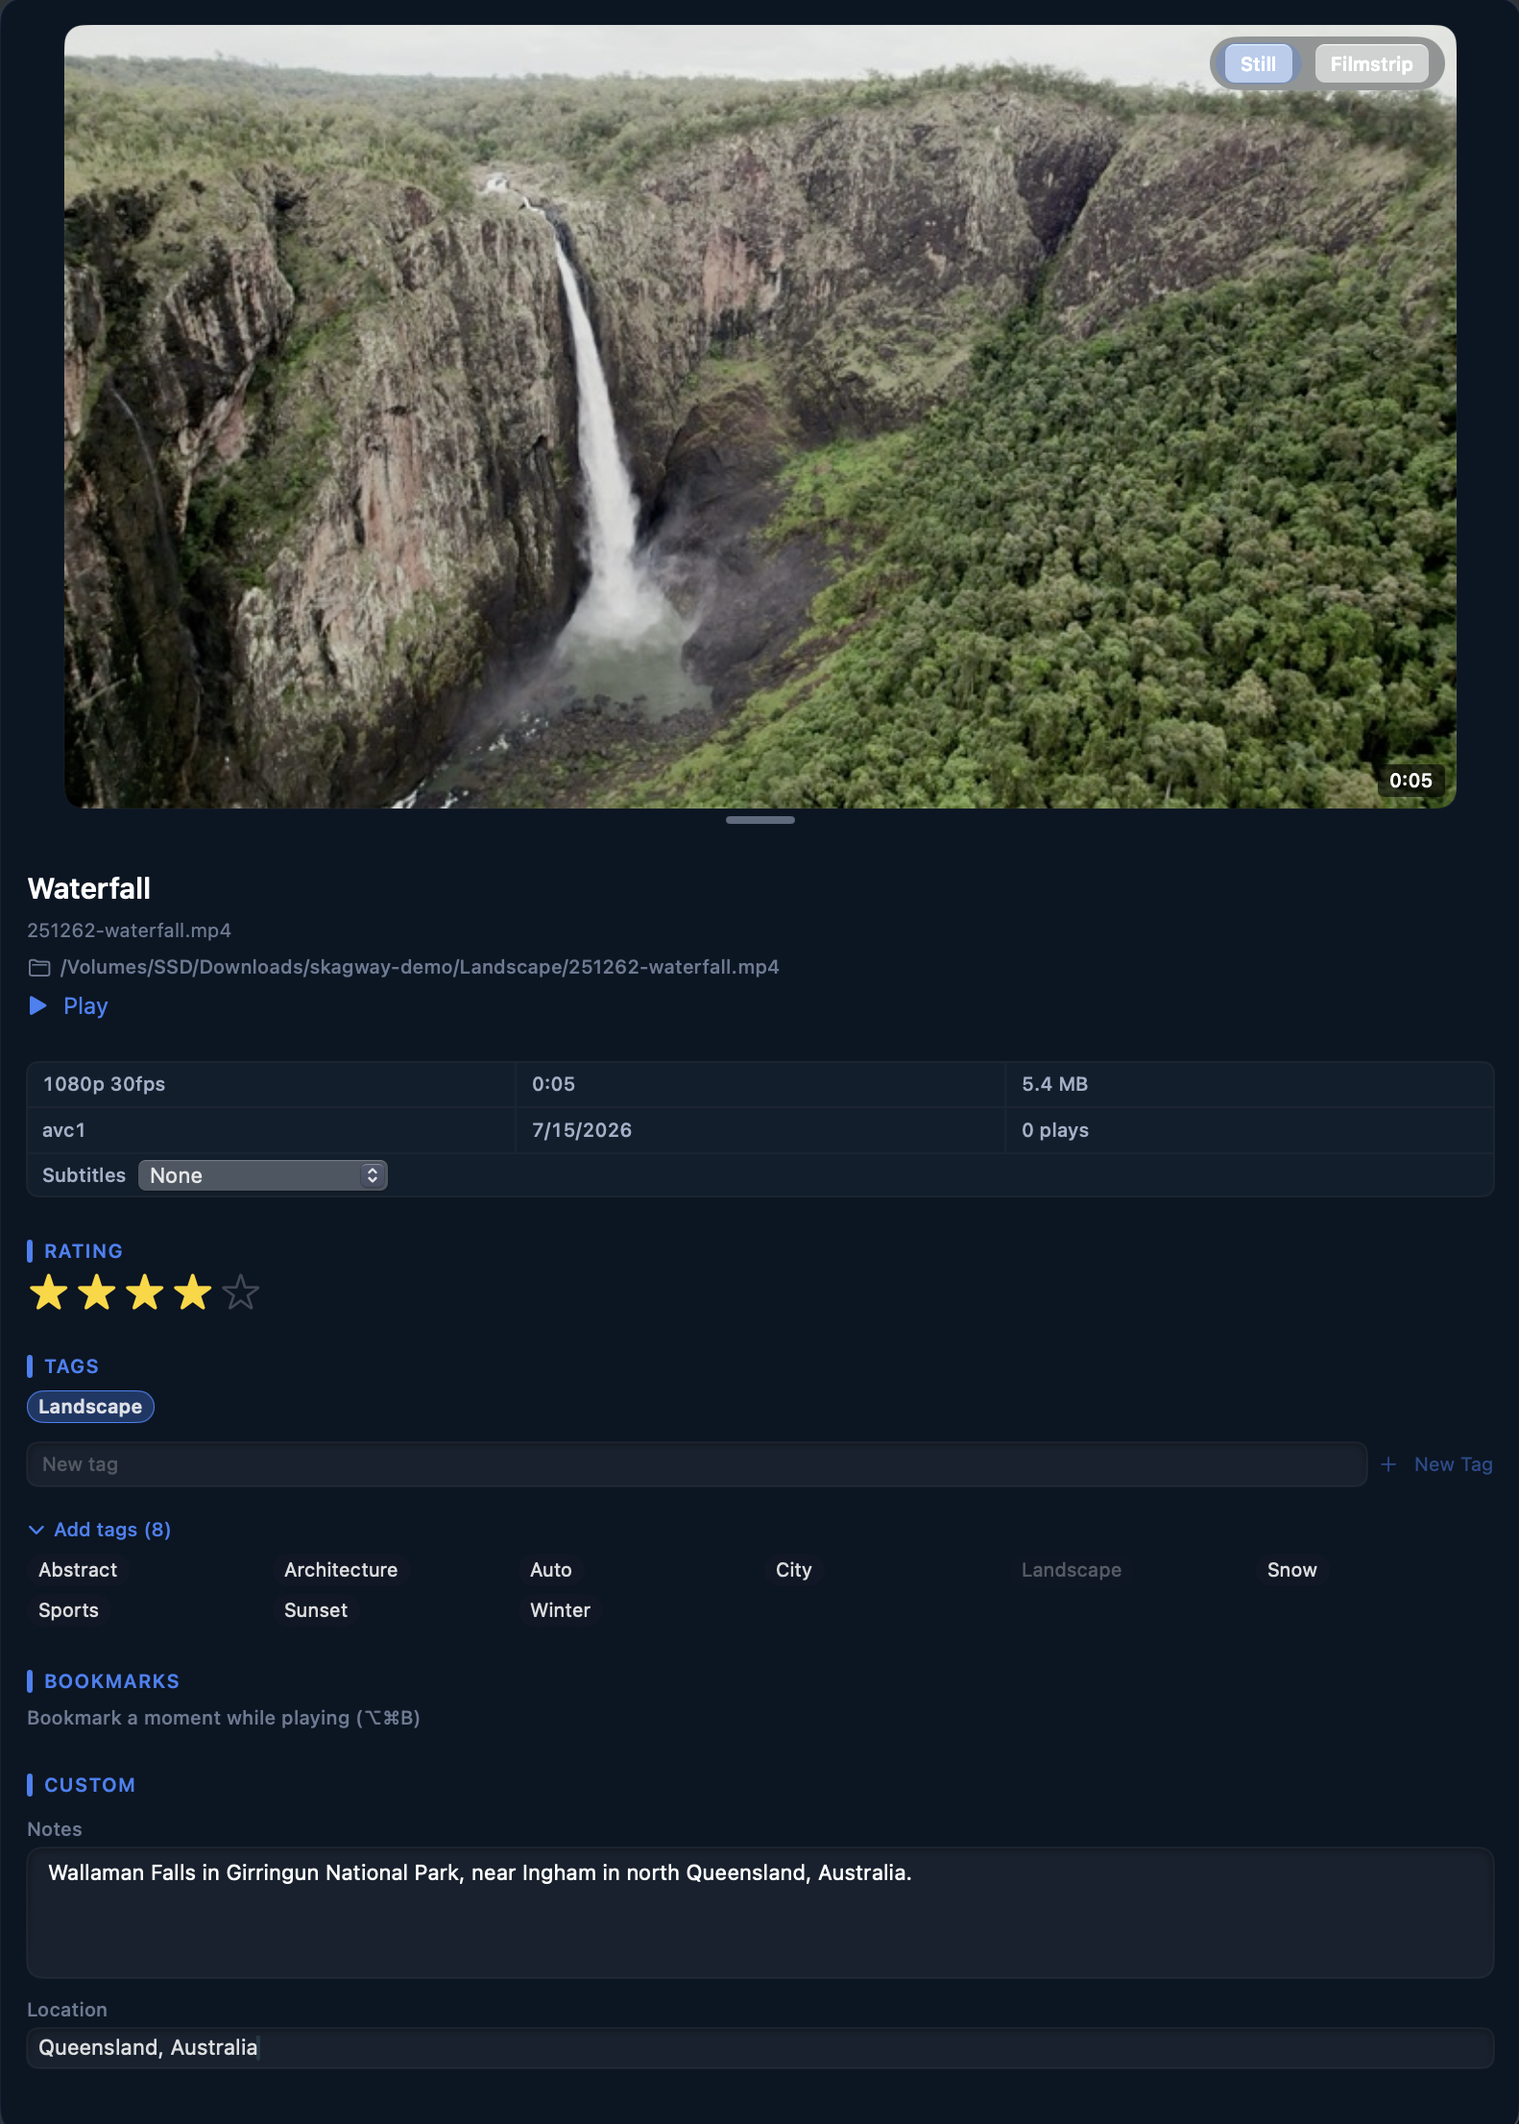
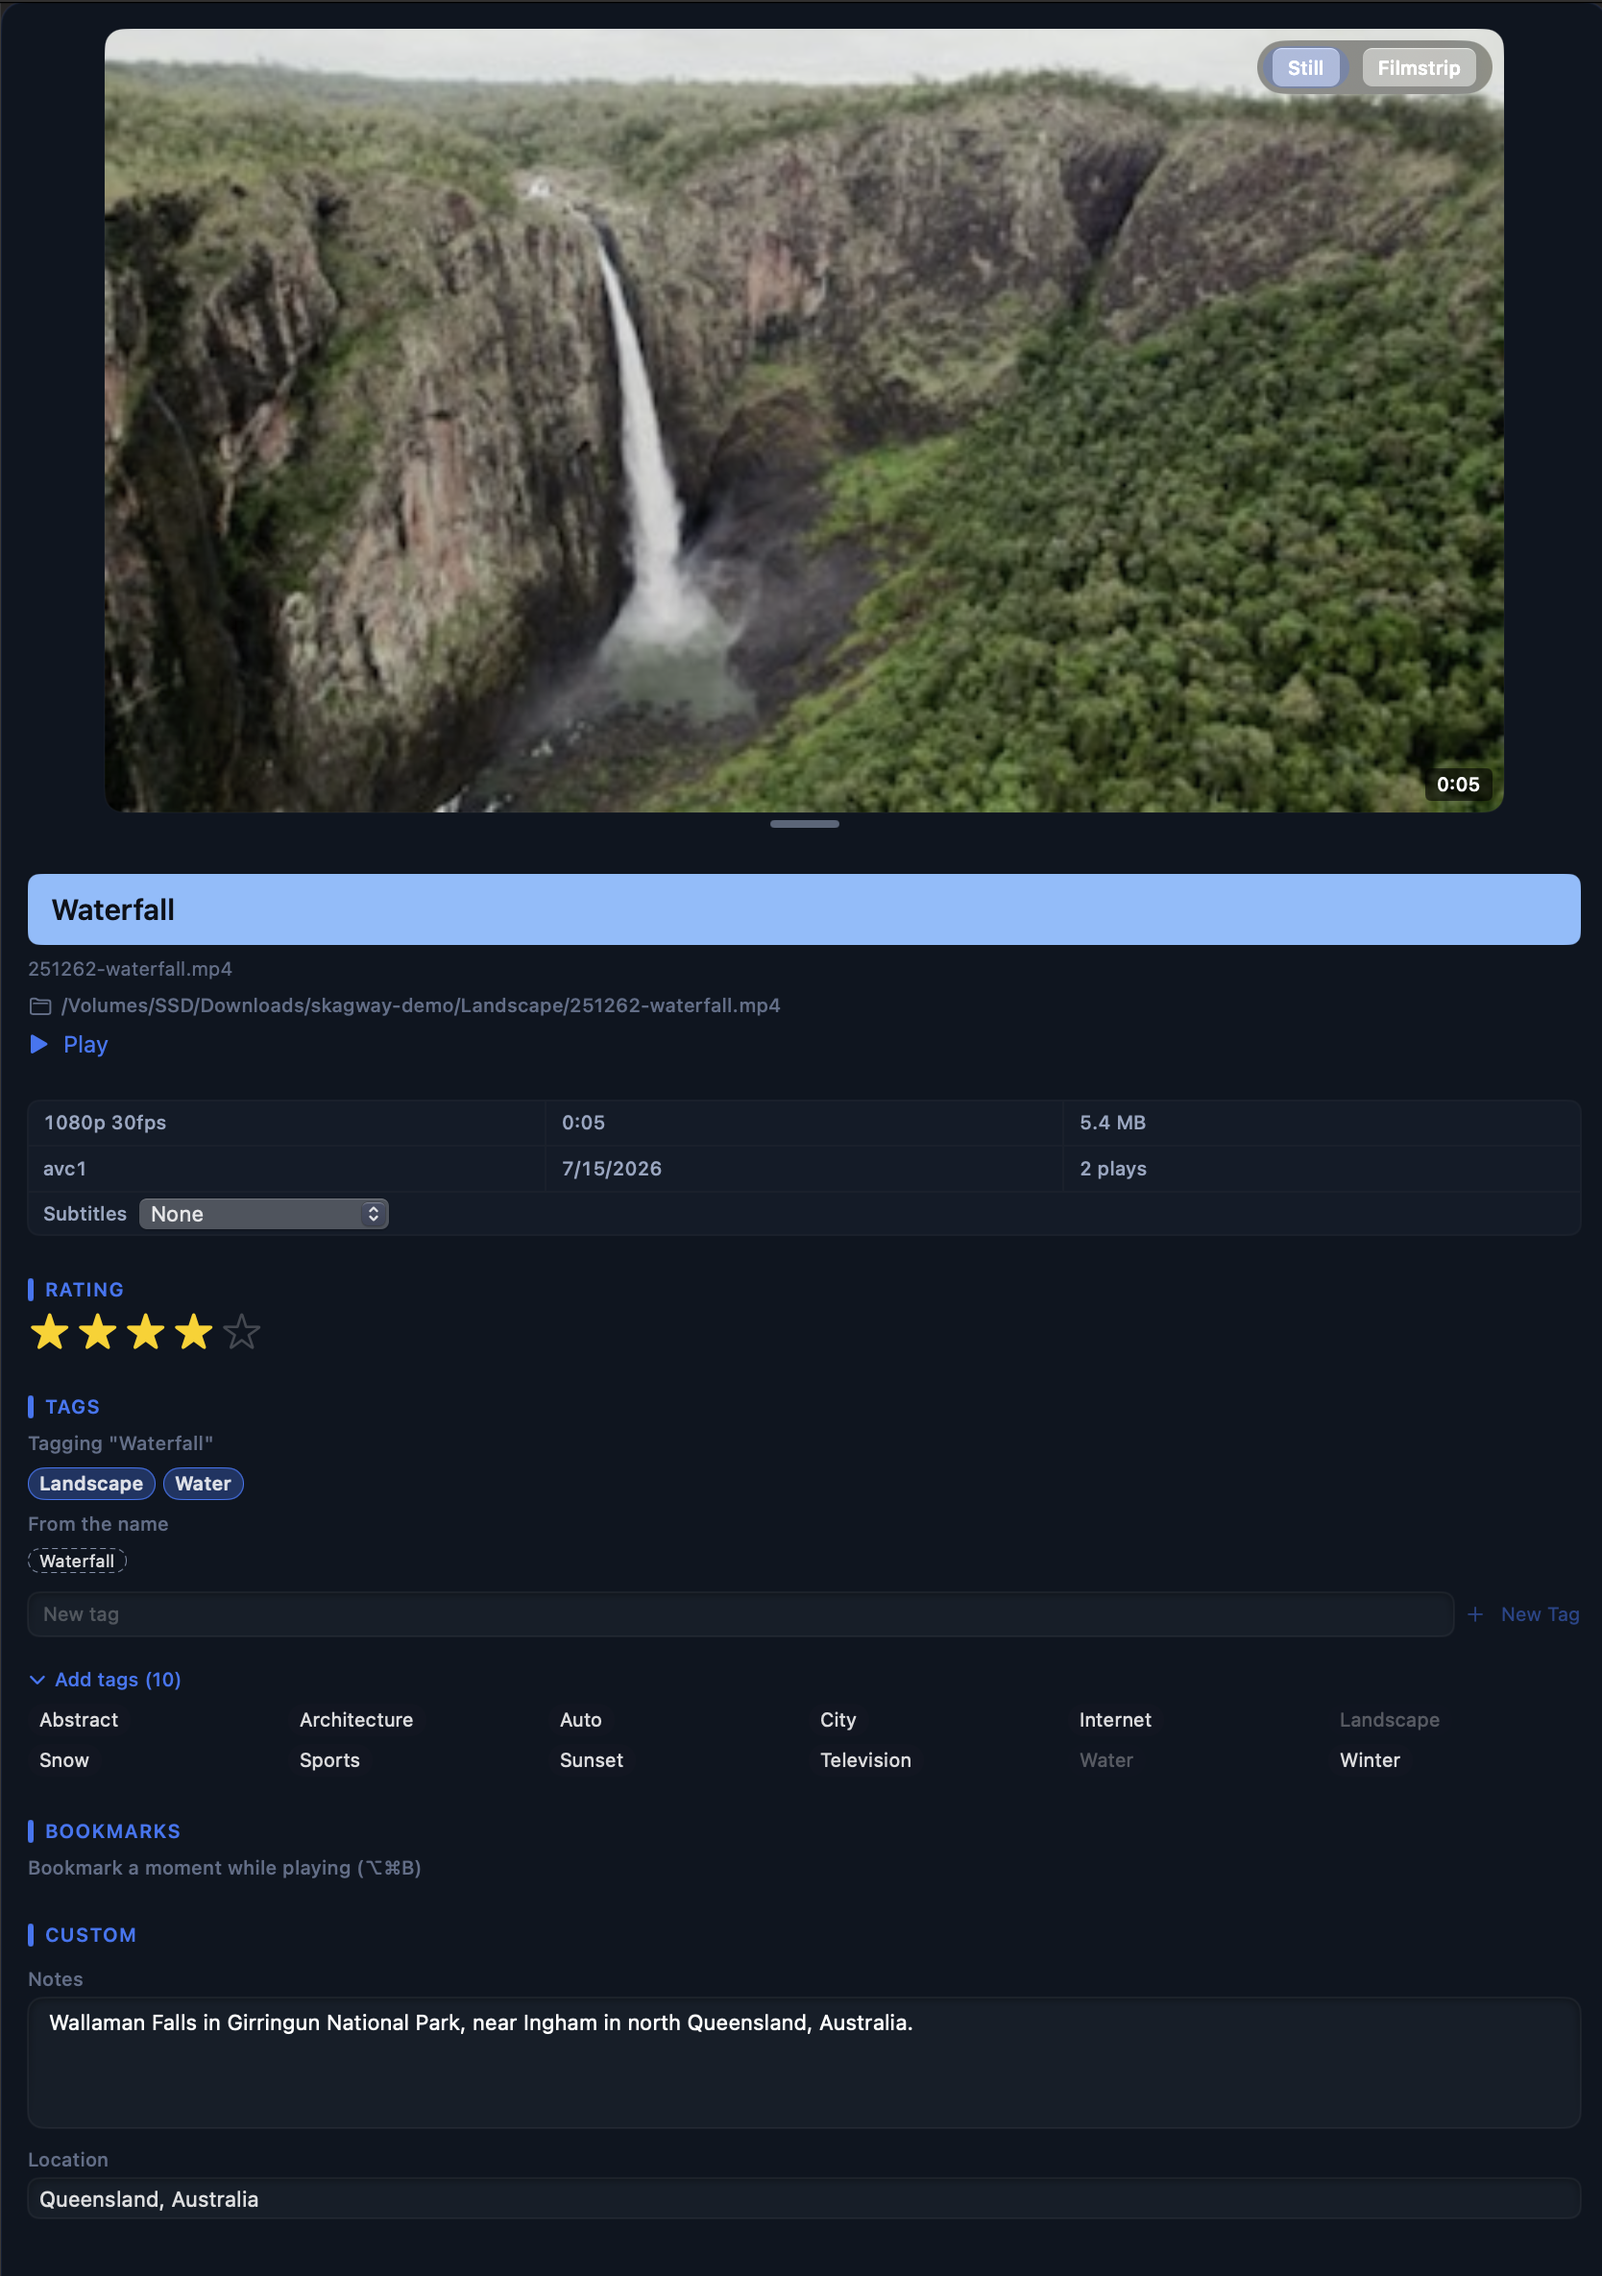
Use the 1.4.0 manual screenshots for rating and tags.

diff --git a/src/app/skagway/manual/manual.ts b/src/app/skagway/manual/manual.ts
@@ -291,7 +291,6 @@ export const MANUAL_PAGES: ManualPage[] = [
       "Skagway Grid layout with the toolbar: layout buttons, sort menu, Play All, and Search videos field",
     screenshotHint:
       "Populated Grid. Cards show rating stars and up to three tags, plus a +N count when more tags do not fit. Toolbar must show Grid, List, and Storyboard, the Sort menu and its direction arrow, Play All, Loop Play All, Search videos, and the video count. The pointer rests on one card so the tag icon is visible.",
-    screenshotNeedsUpdate: true,
     sections: [
       {
         title: "Grid and List",
@@ -349,7 +348,6 @@ export const MANUAL_PAGES: ManualPage[] = [
             caption: "The Storyboard layout: six frames from each clip",
             alt: "Skagway Storyboard layout with six-frame collages",
             hint: "Storyboard layout (⌘3) of a populated library. Several six-frame collages visible, with rating stars and up to three tags under at least two of them. The Storyboard toolbar control shows Normal or Compact. One collage focused (dashed ring or equivalent). Playback not started.",
-            needsUpdate: true,
           },
         ],
       },
@@ -554,7 +552,6 @@ export const MANUAL_PAGES: ManualPage[] = [
       "Skagway Inspector with rating stars, assigned tags, name suggestions, and custom fields",
     screenshotHint:
       "Selected video with the Inspector open: display Title, Subtitles picker, filled rating stars, at least one assigned tag, a From the name row of dashed suggestions taken from the file or folder name, and a custom field if defined.",
-    screenshotNeedsUpdate: true,
     sections: [
       {
         title: "Hide / Show Inspector",

diff --git a/src/app/skagway/manual/guide.ts b/src/app/skagway/manual/guide.ts
@@ -28,7 +28,6 @@ export const GUIDE_PAGES: ManualPage[] = [
     screenshotAlt: "Skagway Storyboard layout with six-frame collages",
     screenshotHint:
       "Storyboard layout (⌘3) of a populated library. Several six-frame collages visible, with rating stars and tags under at least two of them. One collage focused. Playback not started.",
-    screenshotNeedsUpdate: true,
     sections: [
       {
         title: "Look at frames, then search",
@@ -59,7 +58,6 @@ export const GUIDE_PAGES: ManualPage[] = [
     screenshot: "organize.png",
     screenshotCaption: "Rating, tags, and custom fields in the Inspector",
     screenshotAlt: "Skagway Inspector with rating, tags, and the display title",
-    screenshotNeedsUpdate: true,
     sections: [
       {
         title: "Rate and tag in the Inspector",
@@ -167,7 +165,6 @@ export const GUIDE_PAGES: ManualPage[] = [
     screenshot: "organize.png",
     screenshotCaption: "The Inspector, showing the focused clip",
     screenshotAlt: "Skagway Inspector with rating, tags, and the display title",
-    screenshotNeedsUpdate: true,
     sections: [
       {
         title: "Read one clip, or edit the set",
